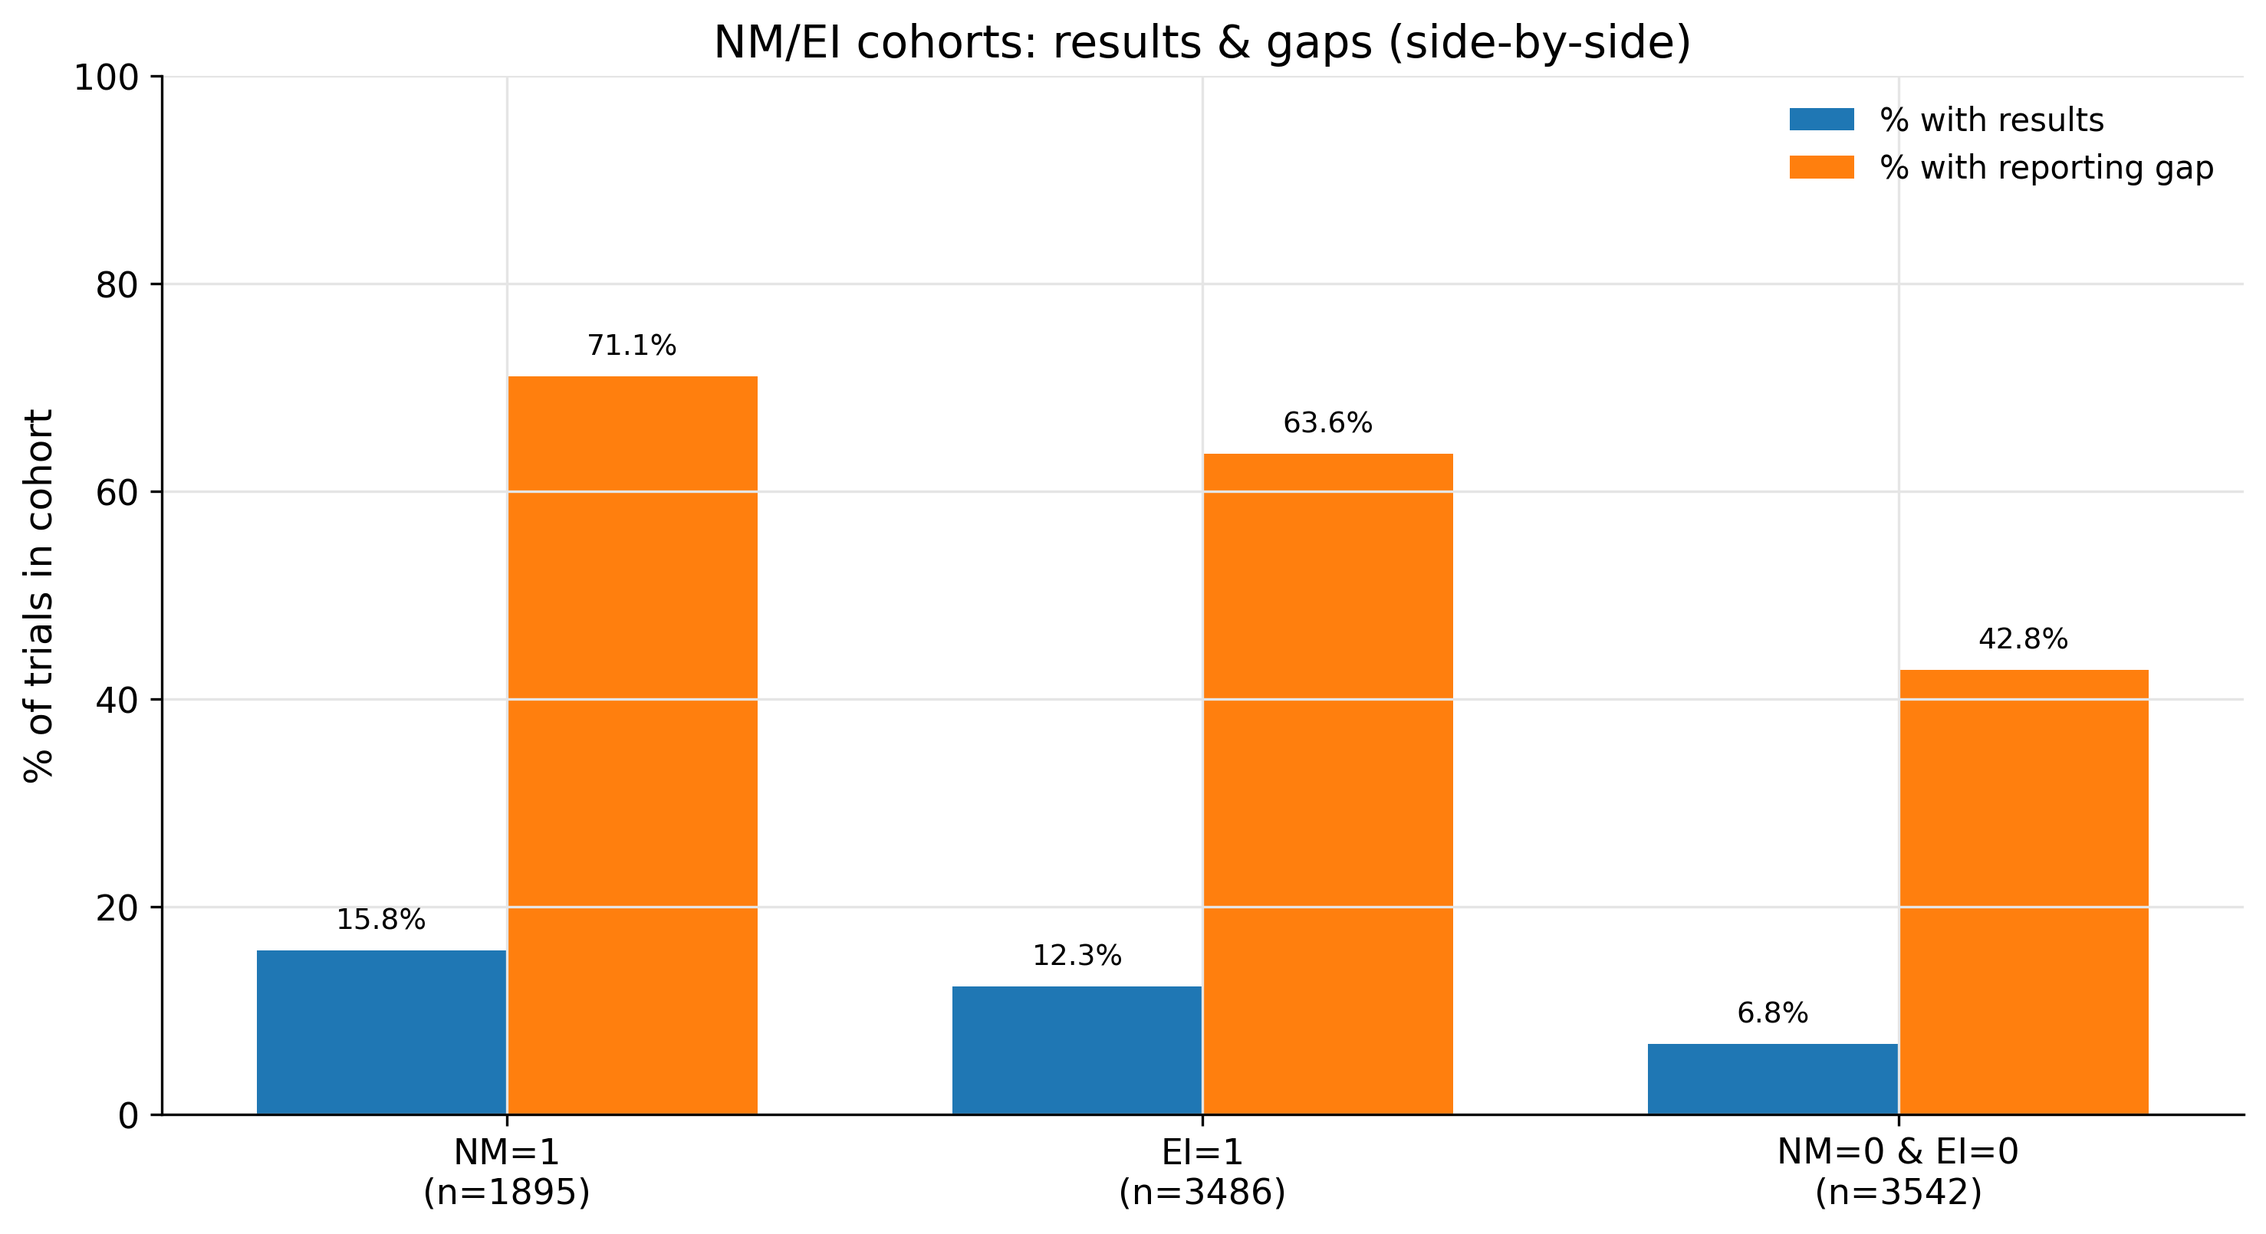
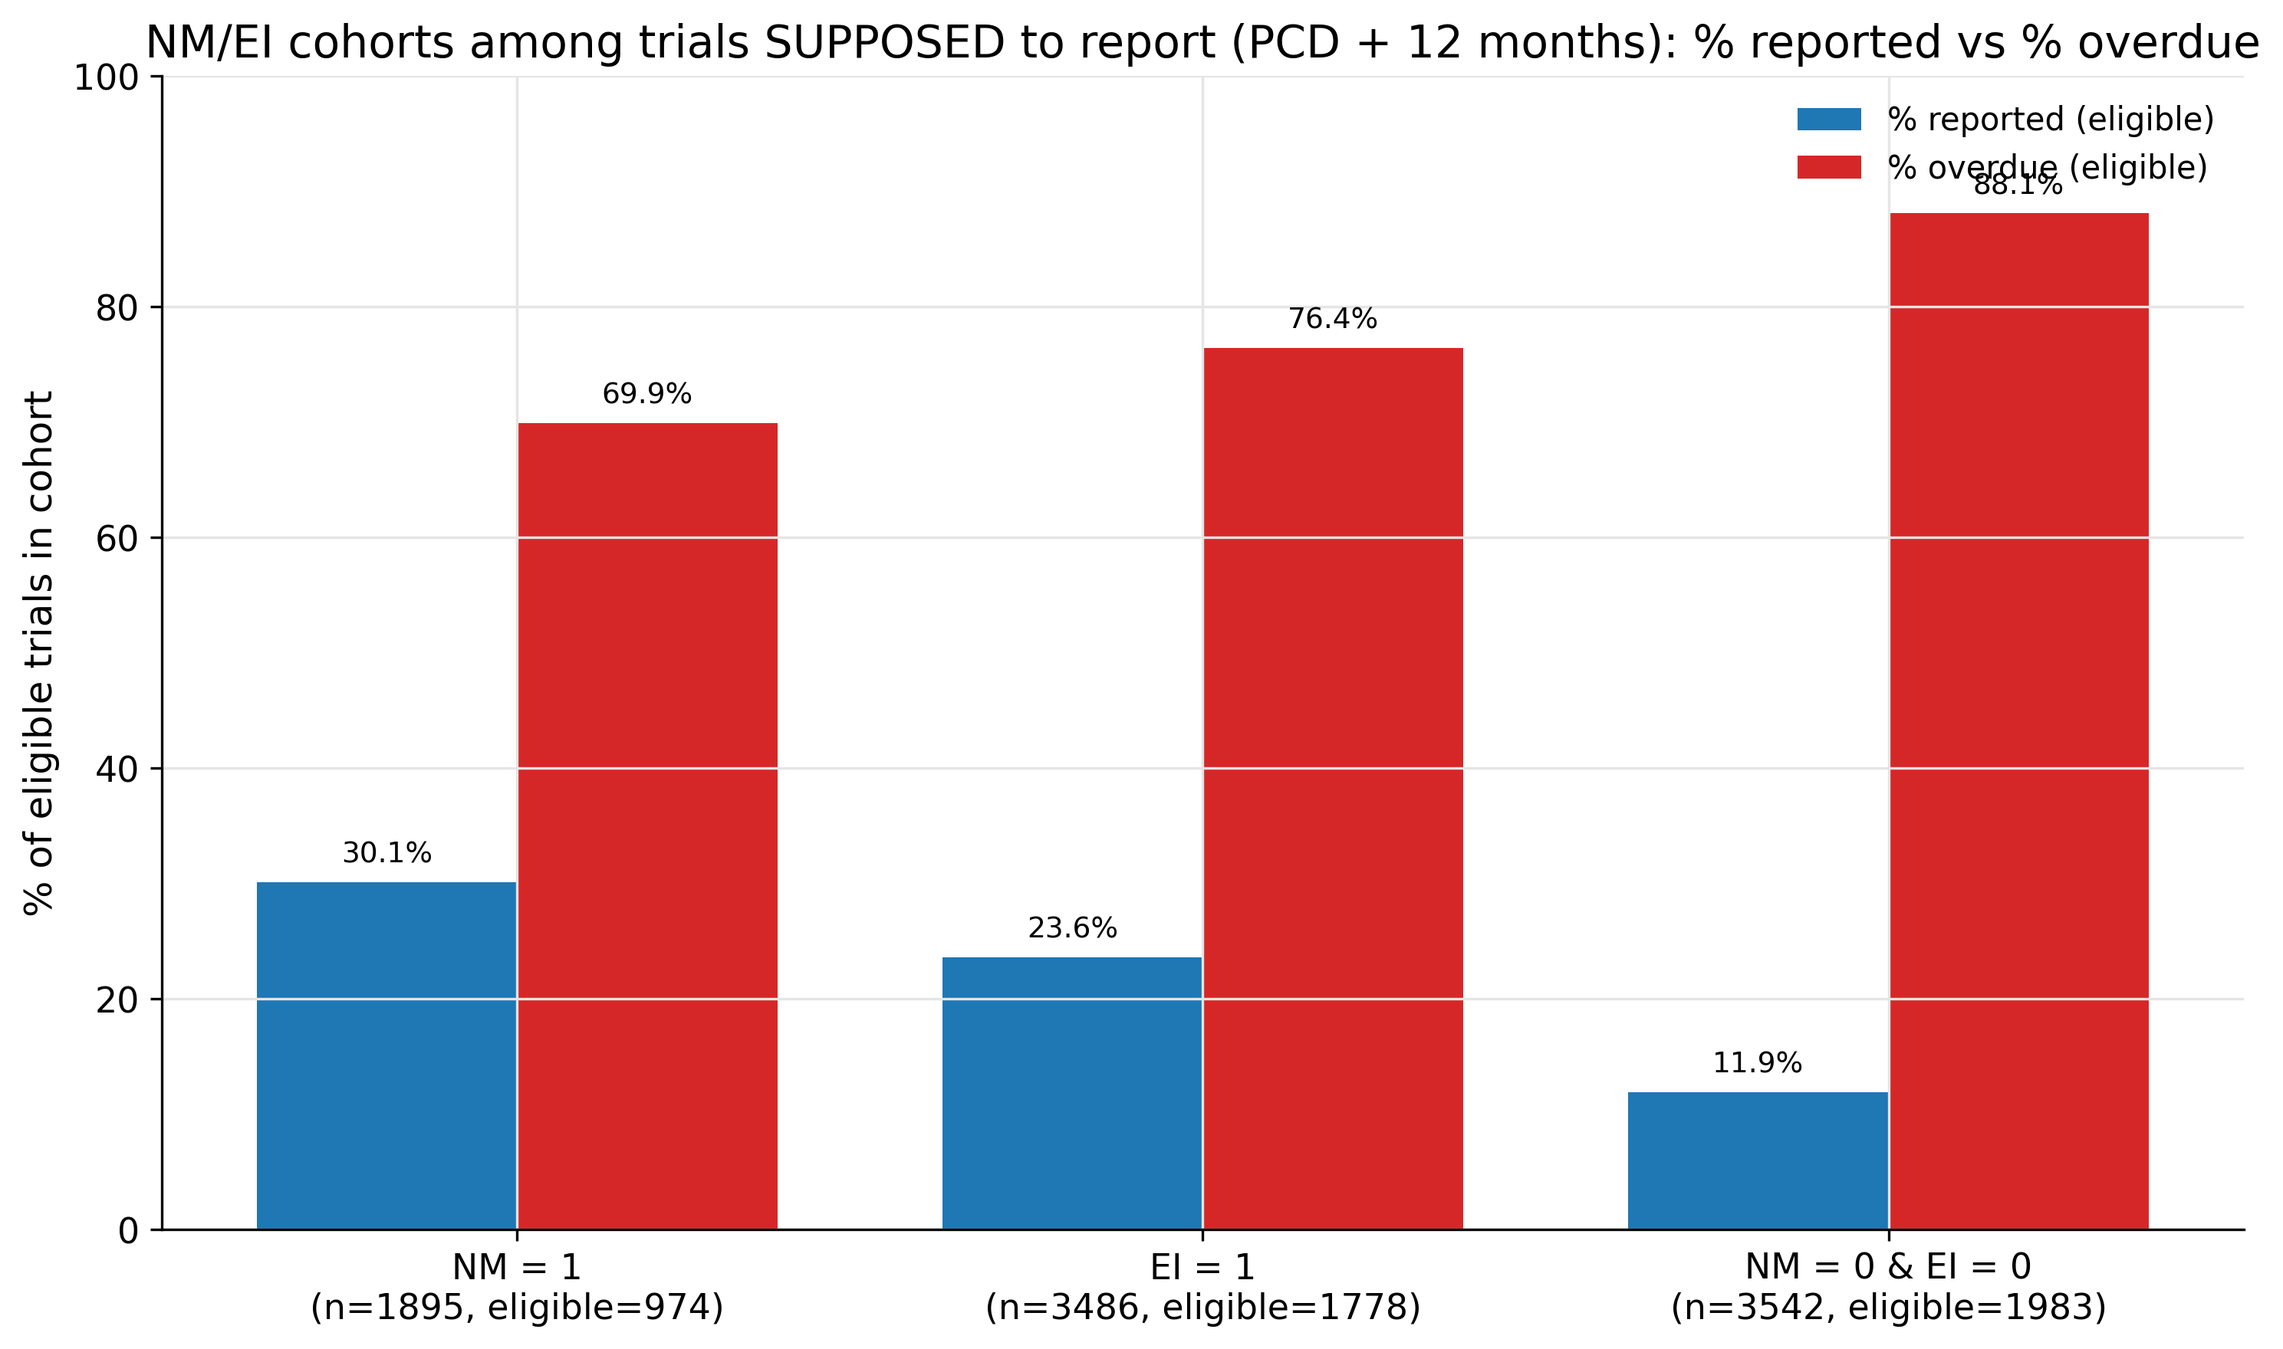
changes to endpoint analytics

diff --git a/analytics/02_endpoints_matrix.py b/analytics/02_endpoints_matrix.py
@@ -1,43 +1,177 @@
 # analytics/02_endpoints_matrix.py
 from __future__ import annotations
+import json
 import pandas as pd
 import numpy as np
 import matplotlib.pyplot as plt
 from analytics.common import load_enhanced, add_derived, ENDPOINT_COLS, save_fig, save_stats, PALETTE
 
+# Policy: results due 12 months after Primary Completion Date (PCD)
+ELIGIBILITY_LAG_DAYS = 365
+
+def _endpoint_label_from_col(col: str) -> str:
+    """
+    Heuristic to turn a column like 'Progression_Free_Survival' into a label
+    likely to match items inside detected_endpoint_names.
+    Override here for corner cases if needed.
+    """
+    pretty = col.replace("_", " ").strip()
+    # Title-case but keep common all-caps acronyms readable
+    pretty = " ".join(w.upper() if w.isupper() and len(w) <= 4 else w.title() for w in pretty.split())
+    # Small refinements
+    pretty = pretty.replace(" Pcr", " pCR").replace(" Orr", " ORR")
+    return pretty
+
+def _parse_detected_names(s: object) -> set[str]:
+    """
+    detected_endpoint_names often comes as a JSON-like string (e.g., '["PFS","OS"]').
+    Return a lowercase set of names for robust matching. Empty set if missing.
+    """
+    if pd.isna(s):
+        return set()
+    try:
+        if isinstance(s, (list, tuple)):
+            vals = s
+        else:
+            text = str(s).strip()
+            # Accept JSON or a python-literal-like string
+            if text.startswith("["):
+                vals = json.loads(text)
+            else:
+                # fallback: split on commas if someone stored "A, B, C"
+                vals = [v.strip() for v in text.split(",") if v.strip()]
+        return {str(v).strip().lower() for v in vals}
+    except Exception:
+        return set()
+
 def main():
     df = add_derived(load_enhanced()).copy()
 
-    # Reported endpoints: infer by searching titles mapped earlier (results_outcome_measures mapping).
-    # Practical proxy: an endpoint is "reported" if planned flag ==1 AND has_results==1 (conservative).
-    # If you later add explicit reported flags per endpoint, swap this.
-    metrics = []
+    # --- Inputs we rely on ---
+    pcd = pd.to_datetime(df.get("primary_completion_date"), errors="coerce")
+    has_results = df.get("has_results", pd.Series(False, index=df.index)).fillna(False).astype(bool)
+
+    # Detect endpoints actually present in posted results
+    detected_col = "detected_endpoint_names"
+    detected_sets = df.get(detected_col)
+    if detected_sets is None:
+        # Create an empty series if column not present
+        detected_sets = pd.Series([None] * len(df), index=df.index)
+    detected_sets = detected_sets.map(_parse_detected_names)
+
+    # --- Eligibility (PCD + 12 months) ---
+    today = pd.Timestamp.today().normalize()
+    eligible_mask = pcd.notna() & (pcd <= (today - pd.Timedelta(days=ELIGIBILITY_LAG_DAYS)))
+
+    df_elig = df.loc[eligible_mask].copy()
+    has_results_elig = has_results.loc[eligible_mask]
+    detected_sets_elig = detected_sets.loc[eligible_mask]
+
+    total_eligible = int(eligible_mask.sum())
+    total_eligible_with_results = int(has_results_elig.sum())
+
+    # --- Build per-endpoint metrics within the eligible population only ---
+    rows = []
     for col in ENDPOINT_COLS:
-        planned = int((df[col] == 1).sum())
-        reported = int(((df[col] == 1) & (df["has_results"] == 1)).sum())
-        rate = (100 * reported / planned) if planned > 0 else 0.0
-        metrics.append((col, planned, reported, rate))
+        label = _endpoint_label_from_col(col)
 
-    mdf = pd.DataFrame(metrics, columns=["endpoint", "planned", "reported", "reported_pct"])
-    mdf = mdf.sort_values("planned", ascending=False)
+        planned_mask = (df_elig[col] == 1)
 
-    # plot: horizontal bars for planned vs reported
+        # Endpoint considered "reported present" if the trial posted results AND we detect the endpoint name
+        # in detected_endpoint_names. We also require it was planned, since the matrix is about planned vs reported.
+        # NOTE: if your detected names use slightly different wording, tweak _endpoint_label_from_col or add synonyms below.
+        label_lc = label.lower()
+
+        # robust containment: any detected name containing the label or vice versa
+        def _endpoint_present(name_set: set[str]) -> bool:
+            for n in name_set:
+                if label_lc in n or n in label_lc:
+                    return True
+            return False
+
+        reported_present_mask = planned_mask & has_results_elig & detected_sets_elig.map(_endpoint_present)
+
+        # Reported but missing planned endpoint: planned + has_results but we did NOT detect the endpoint label
+        reported_missing_mask = planned_mask & has_results_elig & (~reported_present_mask)
+
+        planned = int(planned_mask.sum())
+        reported_present = int(reported_present_mask.sum())
+        reported_missing = int(reported_missing_mask.sum())
+
+        # Coverage among planned & eligible
+        coverage_pct = (100.0 * reported_present / planned) if planned > 0 else 0.0
+        missing_pct = (100.0 * reported_missing / planned) if planned > 0 else 0.0
+
+        rows.append({
+            "endpoint": label,
+            "planned_eligible": planned,
+            "reported_present": reported_present,
+            "reported_missing": reported_missing,
+            "coverage_pct_among_planned": round(coverage_pct, 1),
+            "missing_pct_among_planned": round(missing_pct, 1),
+        })
+
+    mdf = pd.DataFrame(rows).sort_values("planned_eligible", ascending=False).reset_index(drop=True)
+
+    # --- Plot: 3 bars per endpoint (eligible only) ---
     y = np.arange(len(mdf))
-    fig, ax = plt.subplots(figsize=(9, 7))
-    ax.barh(y, mdf["planned"], color=PALETTE["gray"], label="Planned")
-    ax.barh(y, mdf["reported"], color=PALETTE["primary"], label="Reported")
+
+    # Nice publication-ready colours (fallbacks if PALETTE keys not present)
+    c_planned  = PALETTE.get("gray",     "#98a2b3")
+    c_present  = PALETTE.get("primary",  "#1f77b4")
+    c_missing  = PALETTE.get("danger",   "#d62728")  # red for attention
+
+    fig, ax = plt.subplots(figsize=(10, 7))
+    ax.barh(y, mdf["planned_eligible"], color=c_planned,  label="Planned (eligible)")
+    ax.barh(y, mdf["reported_present"], color=c_present,  label="Reported w/ endpoint")
+    ax.barh(y, mdf["reported_missing"], color=c_missing,  label="Reported but missing planned endpoint")
+
     ax.set_yticks(y)
     ax.set_yticklabels(mdf["endpoint"])
     ax.invert_yaxis()
     ax.set_xlabel("Number of trials")
-    ax.set_title("Endpoints: Planned vs Reported (proxy via results posted)")
+    ax.set_title("Endpoints among trials SUPPOSED to report (PCD + 12 months): planned vs reported presence/missing")
     ax.legend()
+    fig.tight_layout()
     save_fig(fig, "02_endpoints_planned_vs_reported.png")
 
-    txt = "Endpoint planned vs reported (counts & %):\n"
-    for _, row in mdf.iterrows():
-        txt += f"- {row['endpoint']}: planned={int(row['planned'])}, reported={int(row['reported'])}, reported%={row['reported_pct']:.1f}\n"
-    save_stats(txt, "02_endpoints_planned_vs_reported.txt")
+    # --- Text summary (eligible only) ---
+    lines = [
+        "Endpoints analysis (eligible trials only; policy = PCD + 12 months):",
+        f"- Eligible trials (should have reported): {total_eligible:,}",
+        f"- Eligible trials WITH results: {total_eligible_with_results:,}",
+        "",
+        "Per-endpoint (counts within eligible trials that PLANNED the endpoint):",
+    ]
+    for _, r in mdf.iterrows():
+        lines.append(
+            f"- {r['endpoint']}: planned={int(r['planned_eligible'])}, "
+            f"reported w/ endpoint={int(r['reported_present'])} "
+            f"({r['coverage_pct_among_planned']:.1f}% of planned), "
+            f"reported but MISSING planned endpoint={int(r['reported_missing'])} "
+            f"({r['missing_pct_among_planned']:.1f}% of planned)"
+        )
+
+    # Totals across endpoints (optional, gives a sense of overall coverage vs missing among planned)
+    total_planned = int(mdf["planned_eligible"].sum())
+    total_present = int(mdf["reported_present"].sum())
+    total_missing = int(mdf["reported_missing"].sum())
+    overall_cov = (100.0 * total_present / total_planned) if total_planned > 0 else 0.0
+    overall_miss = (100.0 * total_missing / total_planned) if total_planned > 0 else 0.0
+
+    lines += [
+        "",
+        f"Overall across endpoints (eligible & planned): planned={total_planned:,}, "
+        f"reported w/ endpoint={total_present:,} ({overall_cov:.1f}%), "
+        f"reported but MISSING planned endpoint={total_missing:,} ({overall_miss:.1f}%)",
+        "",
+        "Notes:",
+        "• Entire analysis is restricted to trials that have reached Primary Completion Date + 12 months.",
+        f"• Endpoint presence is inferred from `{detected_col}` by matching names to each endpoint label.",
+        "• If you maintain a canonical mapping from ENDPOINT_COLS → reported endpoint labels, add it to improve matching.",
+    ]
+    save_stats("\n".join(lines), "02_endpoints_planned_vs_reported.txt")
+
 
 if __name__ == "__main__":
     main()

diff --git a/analytics/03_nm_vs_ei.py b/analytics/03_nm_vs_ei.py
@@ -5,75 +5,134 @@ import numpy as np
 import matplotlib.pyplot as plt
 from analytics.common import load_enhanced, add_derived, save_fig, save_stats, PALETTE
 
-def main():
-    df = add_derived(load_enhanced())
+# Policy window: results due 12 months after Primary Completion Date (PCD)
+ELIGIBILITY_LAG_DAYS = 365
 
-    # ---------- TREND: NM vs EI share by start year ----------
+def _safe_pct(num: int | float, den: int | float) -> float:
+    if den is None or den == 0 or pd.isna(den):
+        return float("nan")
+    return float(100.0 * num / den)
+
+def main():
+    df = add_derived(load_enhanced()).copy()
+
+    # ============= 1) TREND: NM vs EI share by start year (ALL trials) =============
     share = (
         df.groupby("start_year", dropna=False)[["NM_new_medicine", "EI_extension_of_indication"]]
           .mean()
           .reset_index()
     )
     share = share[share["start_year"].notna()].sort_values("start_year")
-    share["NM_pct"] = 100 * share["NM_new_medicine"]
-    share["EI_pct"] = 100 * share["EI_extension_of_indication"]
+    share["NM_pct"] = 100.0 * share["NM_new_medicine"]
+    share["EI_pct"] = 100.0 * share["EI_extension_of_indication"]
 
     fig_trend, ax_t = plt.subplots()
-    ax_t.plot(share["start_year"], share["NM_pct"], color=PALETTE["primary"], linewidth=2, label="NM (New Medicine)")
-    ax_t.plot(share["start_year"], share["EI_pct"], color=PALETTE["secondary"], linewidth=2, label="EI (Extension of Indication)")
+    ax_t.plot(share["start_year"], share["NM_pct"], color=PALETTE.get("primary", "#1f77b4"), linewidth=2, label="NM (New Medicine)")
+    ax_t.plot(share["start_year"], share["EI_pct"], color=PALETTE.get("secondary", "#4e79a7"), linewidth=2, label="EI (Extension of Indication)")
     ax_t.set_title("Portfolio Mix: NM vs EI over time")
     ax_t.set_xlabel("Start Year")
     ax_t.set_ylabel("% of trials (by year)")
     ax_t.set_ylim(0, 100)
     ax_t.legend(loc="upper left")
+    fig_trend.tight_layout()
     save_fig(fig_trend, "03_nm_vs_ei_trend.png")
 
-    # COHORTS: results & gaps (side-by-side)
+    # ============= 2) REPORTING GAP (ELIGIBLE ONLY): NM/EI cohorts =============
+    # Columns we rely on
+    pcd = pd.to_datetime(df.get("primary_completion_date"), errors="coerce")
+    has_results = df.get("has_results", pd.Series(False, index=df.index)).fillna(False).astype(bool)
+
+    today = pd.Timestamp.today().normalize()
+    eligible_mask = pcd.notna() & (pcd <= (today - pd.Timedelta(days=ELIGIBILITY_LAG_DAYS)))
+
+    # Define mutually exclusive cohorts: NM=1, EI=1, neither
+    nm = (df["NM_new_medicine"] == 1)
+    ei = (df["EI_extension_of_indication"] == 1)
+    neither = (df["NM_new_medicine"] == 0) & (df["EI_extension_of_indication"] == 0)
+
     cohorts = [
-        ("NM=1", df["NM_new_medicine"] == 1),
-        ("EI=1", df["EI_extension_of_indication"] == 1),
-        ("NM=0 & EI=0", (df["NM_new_medicine"] == 0) & (df["EI_extension_of_indication"] == 0)),
+        ("NM = 1", nm),
+        ("EI = 1", ei),
+        ("NM = 0 & EI = 0", neither),
     ]
 
     rows = []
-    for name, mask in cohorts:
-        sub = df[mask]
-        n = len(sub)
-        results_pct = (sub["has_results"].mean() * 100) if n else 0.0
-        gap_pct = (sub["reporting_gap_flag"].mean() * 100) if n else 0.0
-        rows.append((name, n, results_pct, gap_pct))
-    s = pd.DataFrame(rows, columns=["cohort", "n", "results_pct", "gap_pct"])
+    for label, mask in cohorts:
+        sub_all = df[mask]
+        n_all = len(sub_all)
 
-    # bars side-by-side
+        # Restrict to eligible in this cohort
+        elig = eligible_mask & mask
+        n_eligible = int(elig.sum())
+
+        # Among eligible, reported vs overdue
+        reported_eligible = int((elig & has_results).sum())
+        overdue_eligible = int((elig & (~has_results)).sum())
+
+        # Percentages are **among eligible** (policy-correct)
+        pct_reported_eligible = _safe_pct(reported_eligible, n_eligible)
+        pct_overdue_eligible = _safe_pct(overdue_eligible, n_eligible)
+
+        rows.append({
+            "cohort": label,
+            "n_all": n_all,
+            "n_eligible": n_eligible,
+            "reported_eligible": reported_eligible,
+            "overdue_eligible": overdue_eligible,
+            "pct_reported_eligible": pct_reported_eligible,
+            "pct_overdue_eligible": pct_overdue_eligible,
+        })
+
+    s = pd.DataFrame(rows)
+
+    # ---- Bar plot (eligible only): % reported vs % overdue by cohort ----
     x = np.arange(len(s))
-    w = 0.36
+    w = 0.38
 
-    fig_bar, ax_b = plt.subplots(figsize=(10, 5.5))
-    bars1 = ax_b.bar(x - w/2, s["results_pct"], width=w, color=PALETTE["primary"], label="% with results")
-    bars2 = ax_b.bar(x + w/2, s["gap_pct"], width=w, color=PALETTE["secondary"], label="% with reporting gap")
+    c_reported = PALETTE.get("primary", "#1f77b4")
+    c_overdue  = PALETTE.get("danger",  "#d62728")  # red for attention
 
-    # x labels include cohort sizes
-    labels = [f"{c}\n(n={n})" for c, n in zip(s["cohort"], s["n"])]
+    fig_bar, ax_b = plt.subplots(figsize=(10, 6))
+    bars1 = ax_b.bar(x - w/2, s["pct_reported_eligible"], width=w, color=c_reported, label="% reported (eligible)")
+    bars2 = ax_b.bar(x + w/2, s["pct_overdue_eligible"],  width=w, color=c_overdue,  label="% overdue (eligible)")
+
+    # X labels: cohort + sizes (total and eligible)
+    xticklabels = [f"{c}\n(n={n_all}, eligible={n_elig})" for c, n_all, n_elig in zip(s["cohort"], s["n_all"], s["n_eligible"])]
     ax_b.set_xticks(x)
-    ax_b.set_xticklabels(labels)
+    ax_b.set_xticklabels(xticklabels)
     ax_b.set_ylim(0, 100)
-    ax_b.set_ylabel("% of trials in cohort")
-    ax_b.set_title("NM/EI cohorts: results & gaps (side-by-side)")
+    ax_b.set_ylabel("% of eligible trials in cohort")
+    ax_b.set_title("NM/EI cohorts among trials SUPPOSED to report (PCD + 12 months): % reported vs % overdue")
     ax_b.legend(loc="upper right")
 
-    # annotate values
+    # annotate bar values
     def _annotate(bars):
         for b in bars:
             val = b.get_height()
-            ax_b.text(b.get_x() + b.get_width()/2, val + 1.5, f"{val:.1f}%", ha="center", va="bottom", fontsize=9)
+            if not pd.isna(val):
+                ax_b.text(b.get_x() + b.get_width()/2, val + 1.2, f"{val:.1f}%", ha="center", va="bottom", fontsize=9)
     _annotate(bars1)
     _annotate(bars2)
 
+    fig_bar.tight_layout()
     save_fig(fig_bar, "03_nm_ei_results_gaps.png")
 
-    # stats text
-    txt = "NM vs EI summary (cohort sizes, % with results, % with gap):\n" + s.to_string(index=False)
-    save_stats(txt, "03_nm_vs_ei.txt")
+    # ---- Text summary (eligible only) ----
+    lines = [
+        "NM vs EI reporting gap (policy = PCD + 12 months):",
+    ]
+    for _, r in s.iterrows():
+        lines.append(
+            f"- {r['cohort']}: "
+            f"total n={int(r['n_all'])}, eligible n={int(r['n_eligible'])} | "
+            f"reported (eligible)={int(r['reported_eligible'])} "
+            f"({r['pct_reported_eligible']:.1f}%), "
+            f"overdue (eligible)={int(r['overdue_eligible'])} "
+            f"({r['pct_overdue_eligible']:.1f}%)"
+        )
+
+    save_stats("\n".join(lines), "03_nm_vs_ei.txt")
+
 
 if __name__ == "__main__":
     main()
